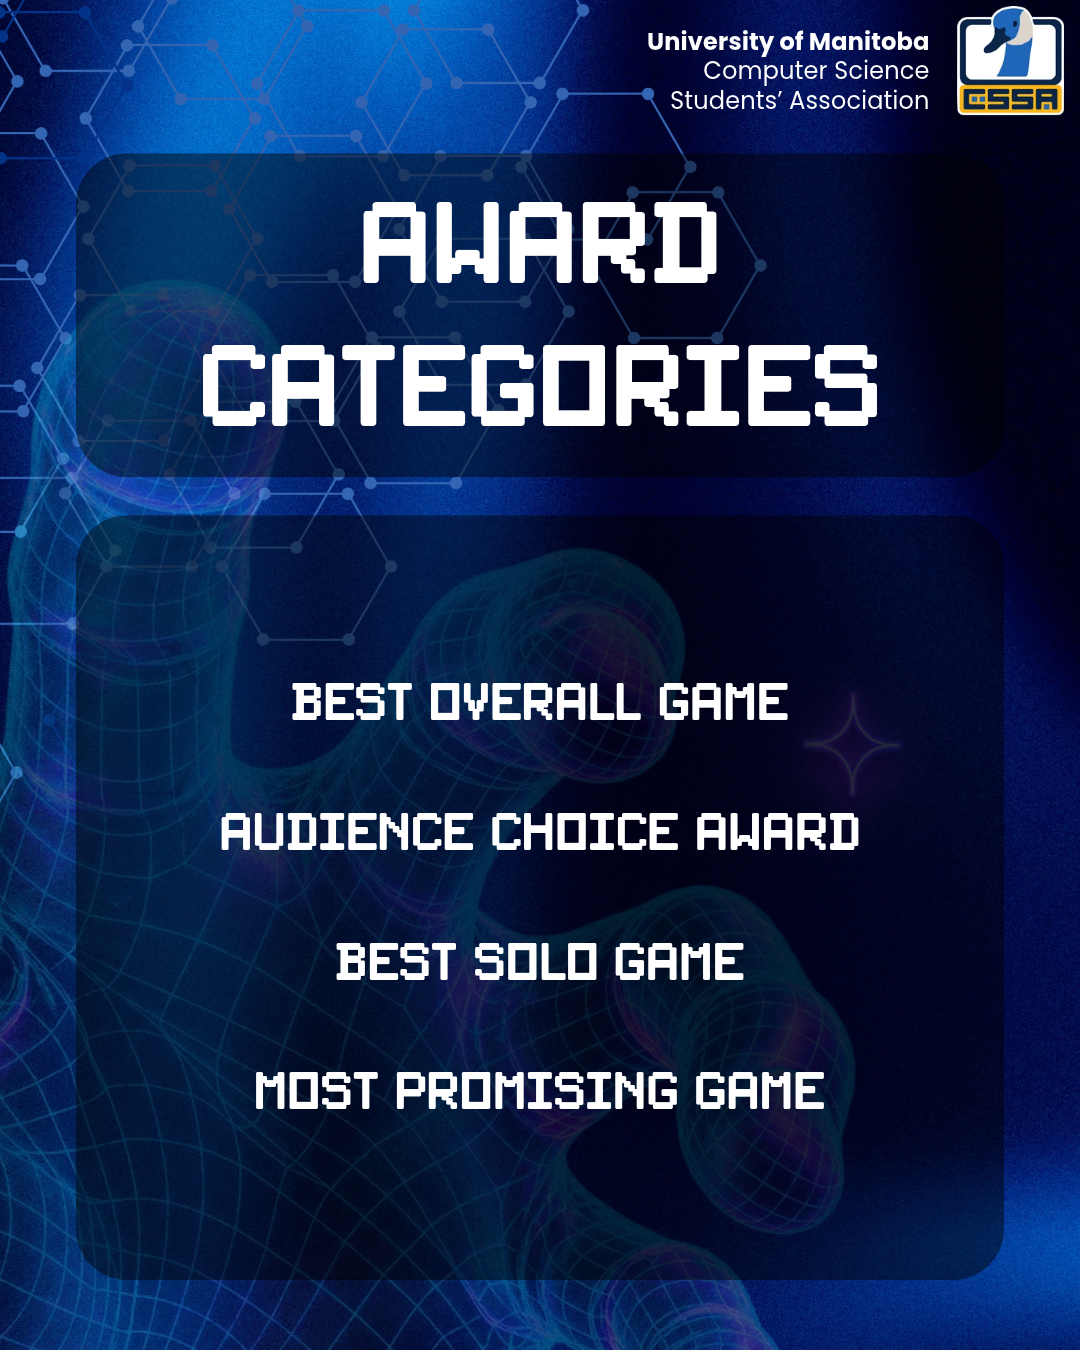
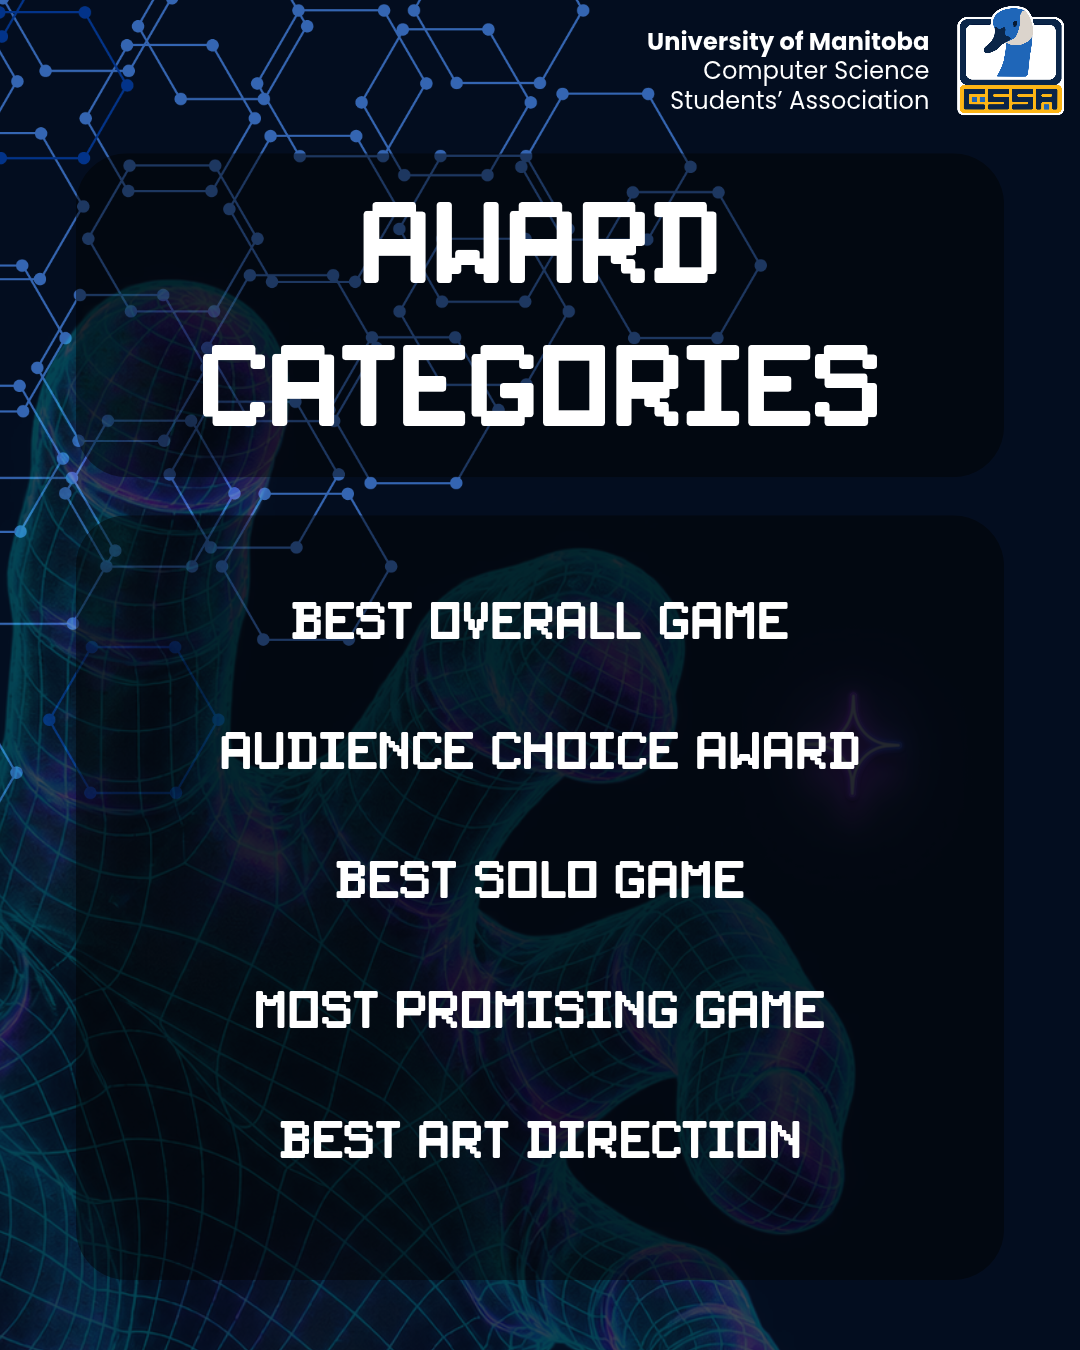
[WEB-262] Update awards graphic

diff --git a/src/app/events/game-jam-2026/page.tsx b/src/app/events/game-jam-2026/page.tsx
@@ -108,8 +108,8 @@ export default function GameJam2026() {
                     <Image
                         src="/img/game-jam/2026/award-categories.png"
                         alt="Game Jam 2026 Award Categories"
-                        width={400}
-                        height={400}
+                        width={1080}
+                        height={1350}
                         className="w-full lg:w-1/2"
                     />
                 </div>
